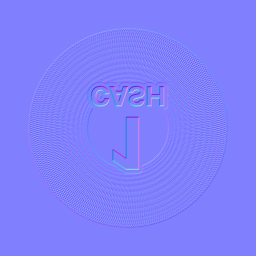
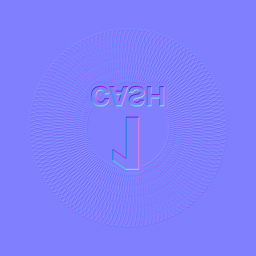
fix(jollity-app): coarser, shallower guilloche on the prize coin

diff --git a/apps/jollity-app/lib/draw/wheel/proto/scenes/wheel/slit/config.js b/apps/jollity-app/lib/draw/wheel/proto/scenes/wheel/slit/config.js
@@ -213,8 +213,11 @@ export const SOLID_LOOK = {
   // GOOD LUCK is on its front now (the look's): it starts on it, face-on — no half turn (lucky.js faceBack)
   mapSize: '512',
 }
-/* the prize's coin: the coin lab's Winners coin (metal), at this page's map size */
-export const PRIZE_LOOK = { ...BASE_LOOK, mapSize: '512' }
+/* the prize's coin: the coin lab's Winners coin (metal), at this page's map size.
+   JOLLITY: its guilloche at half the rings and a shallower cut. The lab's 16
+   rings at 512² are lines about a texel wide, and on a phone they shimmer into a
+   moiré under the amount; 8 rings read as engine-turned loops at this size. */
+export const PRIZE_LOOK = { ...BASE_LOOK, mapSize: '512', patternScale: 0.5, patternDepth: 0.11 }
 
 /* the scene fills these in create(); the panel's buttons and applySlit()
    below call them. Empty until then, so a dial moved before the first frame
